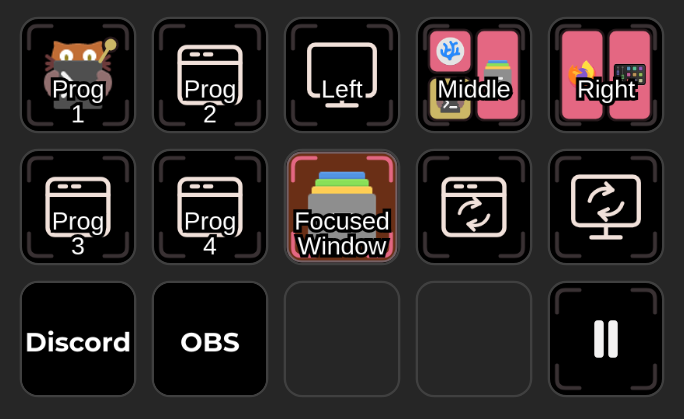
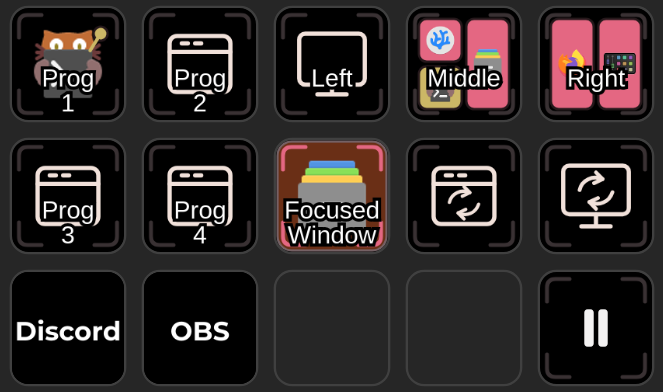
docs(README): add a second screenshot showing off a casting profile

diff --git a/README.md b/README.md
@@ -22,8 +22,18 @@ It has actions for:
 
 It also looks pretty :) yay
 
-![A Stream Deck profile showing Umbriel Controls workspace buttons, layouts, and colour palettes](./screenshot-general.png)
-![A Stream Deck profile showing multiple uses of the PipeWire screen sharing tools](./screenshot-casting.png)
+<p align="center">
+  <img
+    src="./screenshot-general.png"
+    alt="A Stream Deck profile showing Umbriel Controls workspace buttons, layouts, and colour palettes"
+    width="49%"
+  />
+  <img
+    src="./screenshot-casting.png"
+    alt="A Stream Deck profile showing multiple uses of the PipeWire screen sharing tools"
+    width="49%"
+  />
+</p>
 
 (The general idea is to pick functionality where visual feedback or the specificity of
 control is useful compared to just a keyboard shortcut.)
